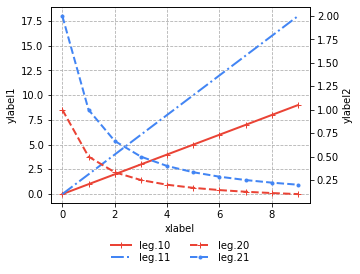
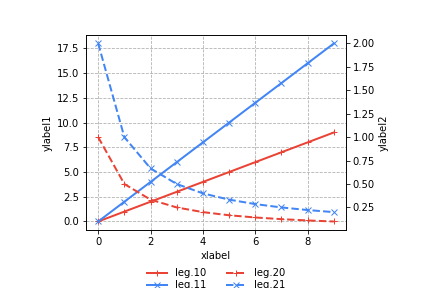
update distribution

diff --git a/fig2.py b/fig2.py
@@ -1,0 +1,32 @@
+import matplotlib.pyplot as plt
+import numpy as np
+import style
+
+if __name__ == '__main__':
+	# plot for energy
+	#style.use_bold_tex_style()
+	style.use_google_style_colors()
+	
+	fig, (ax1,ax2) = plt.subplots(1,2)
+
+	# suitable for two-column paper
+	fig.set_size_inches(w=6, h=2.5)
+	n = 1000
+	bins = 50
+	y = np.random.normal(size=n)
+	ax1.hist(y, bins=bins, color="#ea4335",density=True)
+	ax2.hist(y, bins=bins, cumulative=True, color="#4285f4", density=True)
+	for ax_ in [ax1, ax2]:
+		ax_.grid(ls='--')
+		ax_.spines['right'].set_visible(False)
+		ax_.spines['top'].set_visible(False)
+	#fig.legend(loc='upper center', ncol=2, 
+	#		   bbox_to_anchor=(0, -0.1, 1, 0.2), mode=None,
+	#		   handlelength=2, columnspacing=2,
+	#		   labelspacing=0.2, frameon=False)
+	fig.suptitle("pdf and cdf of normal distribution")
+
+	fig.subplots_adjust(bottom=0.1, left=0.08, right=0.92, wspace=0.25)
+	fig.savefig("figs/fig2.png")
+
+# %%

diff --git a/fig1.py b/fig1.py
@@ -19,7 +19,7 @@ if __name__ == '__main__':
 	n = 10
 	lw = 2
 	for i in range(2):
-		marker = ['+', '.'][i]
+		marker = ['+', 'x'][i]
 		ax1.plot([(i+1)*x for x in range(n)],f'-{marker}',label=f'leg.1{i}', lw=lw)
 		ax2.plot([(i+1)/(x+1) for x in range(n)],f'--{marker}',label=f'leg.2{i}', lw=lw)
 	ax1.grid(ls='--')
@@ -29,5 +29,5 @@ if __name__ == '__main__':
 			   labelspacing=0.2, frameon=False)
 
 	fig.subplots_adjust(bottom=0.2, left=0.2, right=0.8)
-	fig.savefig("figs/fig1.png", bbox_inches='tight')
+	fig.savefig("figs/fig1.png")
 # %%
